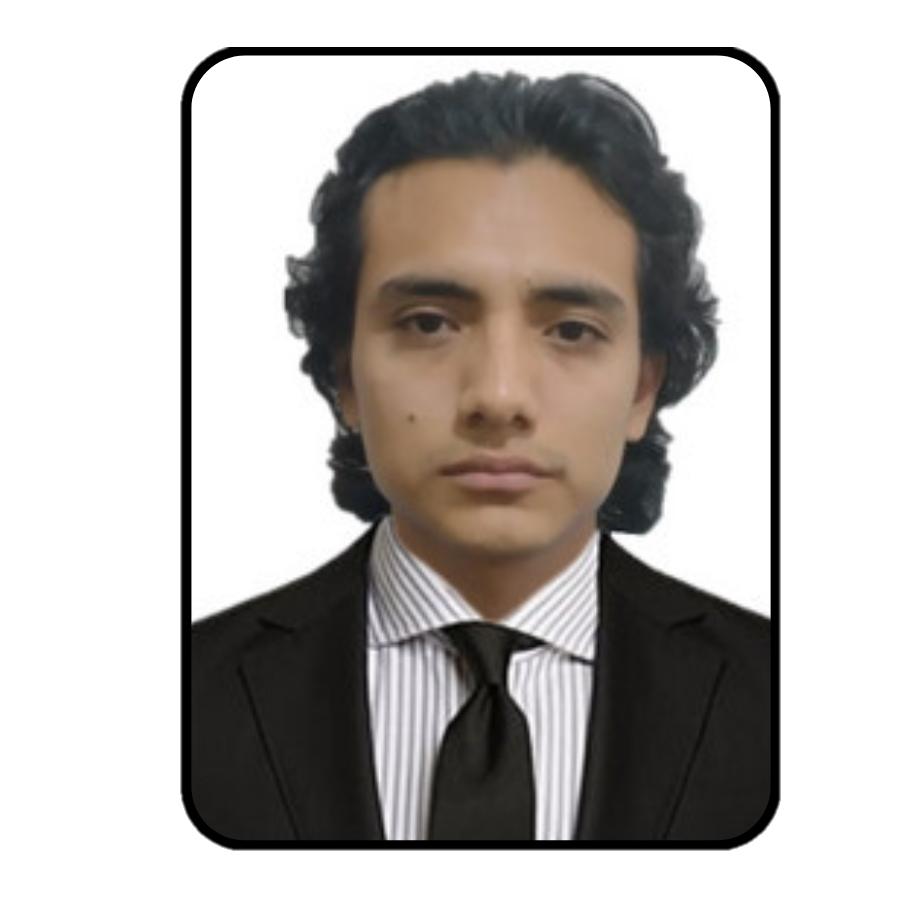
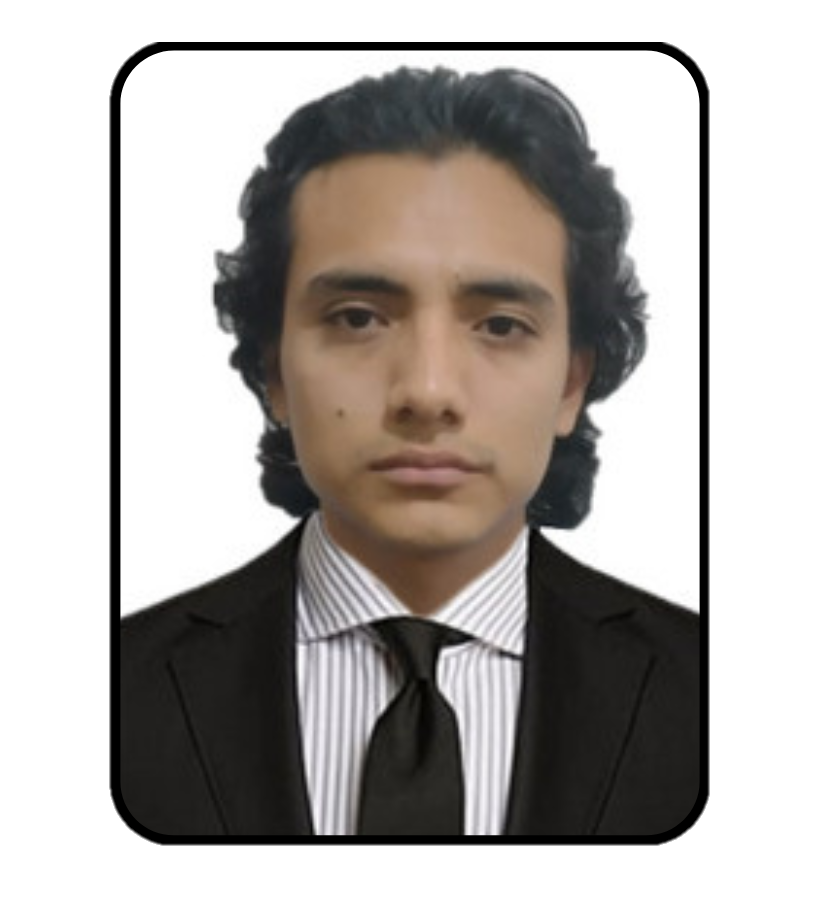
feat: update styles.css

diff --git a/Backend-developer/css/styles.css b/Backend-developer/css/styles.css
@@ -106,7 +106,7 @@ nav ul li {
 }
 
 .hero img {
-  height: 30rem;
+  height: 33.5rem;
   width: 30rem;
 }
 
@@ -295,14 +295,15 @@ nav ul li {
   }
   
   .hero {
-  margin-top: -4rem;
+  margin-top: -1rem;
   flex-direction: column;
   gap: 0;
   }
 
   .hero img {
-      height: 30rem;
-      width: 27rem;
+    height: 29rem;
+    width: 26rem;
+    margin-bottom: 1rem;
   }
 
   .bio {
@@ -337,8 +338,9 @@ nav ul li {
 
 @media screen and (max-width: 420px) {
   .hero img {
-    height: 37.5rem;
-    width: 23rem;
+    height: 24rem;
+    width: 22rem;
+    margin-bottom: 1rem;
   }
 
   .bio {
